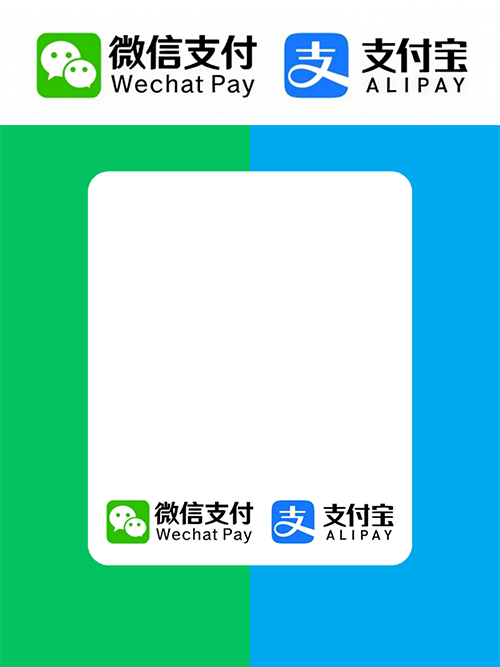
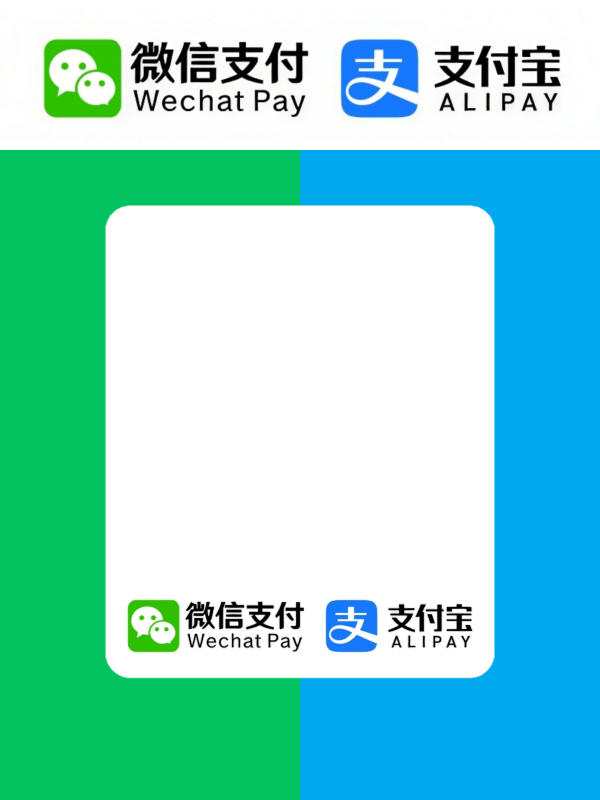
🎈 perf: 新增工具包可供处理大帧数动图，提高生成速度和更小的文件

diff --git a/memes/payment_code/__init__.py b/memes/payment_code/__init__.py
@@ -7,20 +7,29 @@ from meme_generator import add_meme
 from meme_generator.exception import TextOverLength
 from meme_generator.utils import make_jpg_or_gif
 
+# 导入工具包
+import importlib.util
+util_dir = Path(__file__).parents[2] / "utils.py"
+spec = importlib.util.spec_from_file_location("utils", util_dir)
+utils = importlib.util.module_from_spec(spec)
+spec.loader.exec_module(utils)
+
 img_dir = Path(__file__).parent / "images"
 
-default_text = "02大撒杯"
-
+default_text = "收款码"
 
 def payment_code(images: list[BuildImage], texts: list[str], args):
-    frame = BuildImage.open(img_dir / "0.png")
+    # gif检测
+    images = [utils.reduce_frames(img) for img in images]
+
+    frame = BuildImage.open(img_dir / "0.png").convert("RGBA")
     text = texts[0] if texts else default_text
     try:
         frame.draw_text(
-            (40, 576, 454, 642),
+            (60, frame.height - 120, frame.width - 70, frame.height - 10),
             text,
-            min_fontsize=20,
-            max_fontsize=72,
+            min_fontsize=30,
+            max_fontsize=60,
             fill="white",
             allow_wrap=True,
             lines_align="center",
@@ -29,8 +38,8 @@ def payment_code(images: list[BuildImage], texts: list[str], args):
         raise TextOverLength(text)
 
     def make(imgs: list[BuildImage]) -> BuildImage:
-        img = imgs[0].convert("RGBA").resize((300, 300), keep_ratio=True, inside=True)
-        return frame.copy().paste(img, (99, 184), alpha=True)
+        img = imgs[0].convert("RGBA").resize((360, 360), keep_ratio=True, inside=True)
+        return frame.copy().paste(img, (120, 220), alpha=True)
 
     return make_jpg_or_gif(images, make)
 

diff --git a/utils.py b/utils.py
@@ -1,0 +1,29 @@
+from pil_utils import BuildImage
+from meme_generator.utils import split_gif, save_gif
+
+
+def reduce_frames(img: BuildImage, frame_step: int = 2) -> BuildImage:
+  
+  """
+  对 GIF 动图进行抽帧处理，减少帧数以降低体积。
+  - 如果是静态图/动图 < 指定帧数，直接返回原图
+  - 如果是动图且帧数 >= GIF_MAX_FRAMES，则按 frame_step 抽帧并保持总时长
+  :params
+    * ``img``: 输入图片
+    * ``frame_step``: 抽帧间隔（默认2表示抽一半）
+  """
+  max_frame = 60  # 超过这个帧数才触发抽帧
+  pil_img = img.image
+  if getattr(pil_img, "is_animated", False):
+    n_frames = getattr(pil_img, "n_frames", 1)
+    if n_frames >= max_frame:
+      frames = split_gif(pil_img)
+      frames = [
+        f.convert("RGBA")
+        for i, f in enumerate(frames)
+        if i % frame_step == 0
+      ]
+      duration = pil_img.info.get("duration", 100)
+      print(f"[DEBUG] {n_frames} => {len(frames)} 帧, 抽帧完成")
+      return BuildImage.open(save_gif(frames, duration * frame_step / 1000))
+    return img
